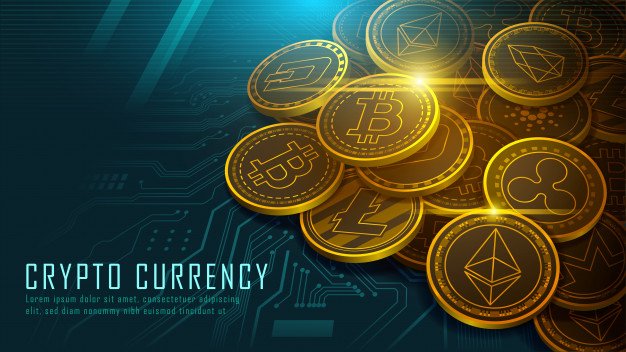
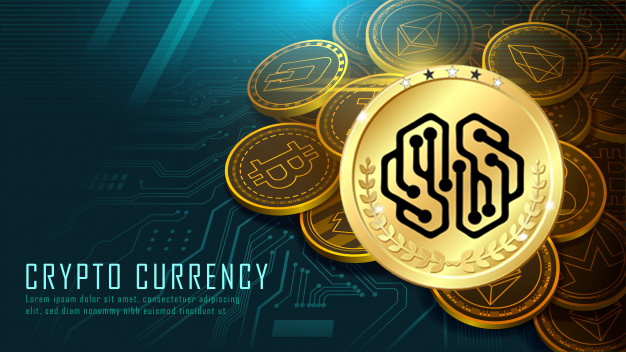
update new coin

Changed region(s): [[0.516, 0.1562, 0.9105, 0.8438]]

diff --git a/index.html b/index.html
@@ -114,17 +114,17 @@
                         </a>
                     </div>
                     <div class="col-lg-6">
-                        <a class="portfolio-item" href="https://www.coinshiba.xyz/" target="_blank">
+                        <a class="portfolio-item" href="https://masterstake.online">
                             <div class="caption">
                                 <div class="caption-content">
-                                    <div class="h3">ShibaCoin</div>
+                                    <div class="h3">MasterStakeCoin</div>
                                     <p class="mb-0">algo scrypt</p>
-									<p class="mb-0">maximum supply : 5 M</p>
-									<p class="mb-0">reward POW : 10 </p>
-									<p class="mb-0">reward POS : 5 </p>									
+									<p class="mb-0">maximum supply : 25 M</p>
+									<p class="mb-0">reward POW : 2 </p>
+                                    <p class="mb-0">reward POS : 6 </p>
                                 </div>
                             </div>
-                            <img class="img-fluid" src="assets/img/portfolio-2.jpg" alt="safeminecoin" />
+                            <img class="img-fluid" src="assets/img/portfolio-4.jpg" alt="safeminecoin" />
                         </a>
                     </div>
                     <div class="col-lg-6">
@@ -141,14 +141,17 @@
                         </a>
                     </div>
                     <div class="col-lg-6">
-                        <a class="portfolio-item" href="#!">
+                        <a class="portfolio-item" href="https://www.coinshiba.xyz/" target="_blank">
                             <div class="caption">
                                 <div class="caption-content">
-                                    <div class="h2">your coin</div>
-                                    <p class="mb-0"></p>
+                                    <div class="h3">ShibaCoin</div>
+                                    <p class="mb-0">algo scrypt</p>
+									<p class="mb-0">maximum supply : 5 M</p>
+									<p class="mb-0">reward POW : 10 </p>
+									<p class="mb-0">reward POS : 5 </p>									
                                 </div>
                             </div>
-                            <img class="img-fluid" src="assets/img/portfolio-4.jpg" alt="safeminecoin" />
+                            <img class="img-fluid" src="assets/img/portfolio-2.jpg" alt="safeminecoin" />
                         </a>
                     </div>
                     <div class="col-lg-6">
